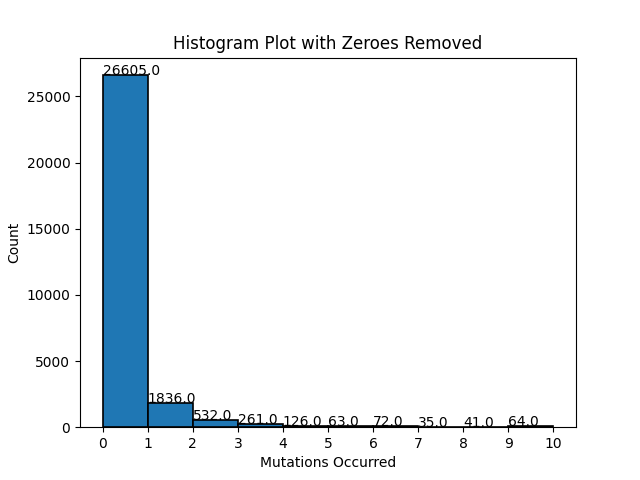
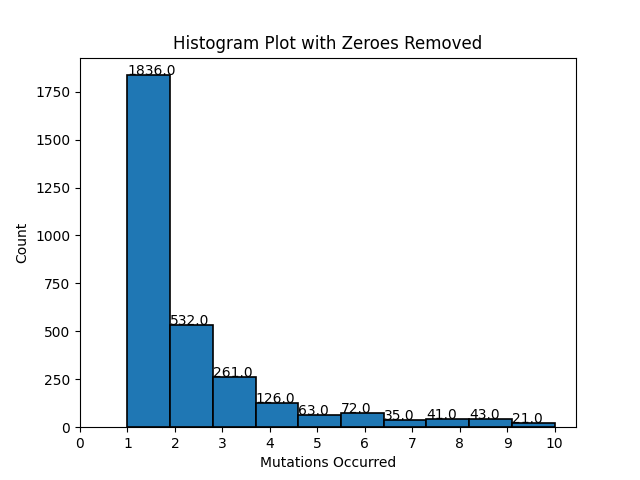
mutation matrix

diff --git a/mutationMatrix.py b/mutationMatrix.py
@@ -1,0 +1,85 @@
+# Names: Steven Jiang
+# Assignment: Project
+# Date: 10/19/21
+# Class: Graduate Bioinformatics, Dr. Chen
+
+import os
+import numpy as np
+import pandas as pd
+from Bio import SeqIO
+
+data = {}
+
+numUnique = 1000
+uniqueSeqFile = 'top1000UniqueSequences.fasta'
+tempFile1 = 'tempFile1.fasta'
+tempFile2 = 'tempFile2.fasta'
+gatekeeperOutputFile = 'output'
+
+def processData():
+    with open(uniqueSeqFile) as handle:
+        for record in SeqIO.parse(handle, 'fasta'):
+            seqID = record.id
+            sequence = str(record.seq)
+
+            data[seqID] = sequence
+
+    print('Confirm size of dictionary matches numUnique: ', len(data))
+
+
+def writeToTempFiles(fileName, header, sequence):
+    with open(fileName, 'w') as file:
+        file.write('>' + header + '\n')
+        file.write(sequence + '\n')
+
+
+def getNumMutations():
+    with open(gatekeeperOutputFile + '.vcf') as f:
+        counter = 0
+        for i in f:
+            # Ignore metadata stuff
+            if not i.startswith('#'):
+                counter += 1
+        return counter
+
+
+def runGATEkeeperCommand():
+    mutationMatrix = [[0 for _ in range(numUnique)] for _ in range(numUnique)]
+    command = './GATEkeeper/bin/GATEkeeper -r ' + tempFile1 + ' -q ' + tempFile2 + ' -o ' + gatekeeperOutputFile
+    keys = list(data.keys())
+
+    for i in range(len(data)):
+        writeToTempFiles(tempFile1, keys[i], data[keys[i]])
+
+        for j in range(i + 1, len(data)):
+            writeToTempFiles(tempFile2, keys[j], data[keys[j]])
+            print('Running GATEkeeper on indices:', i, 'and', j)
+            os.system(command)
+            mutationMatrix[i][j] = getNumMutations()
+
+    return mutationMatrix
+
+
+def saveMatrix(matrix):
+    rowColLabels = [str(x) for x in range(1, numUnique + 1)]
+    matrix = np.array(matrix)
+
+    df = pd.DataFrame(matrix, columns=rowColLabels, index=rowColLabels)
+    df.to_csv(matrixOutputFile, columns=rowColLabels)
+
+
+def deleteTempFiles():
+    os.system('rm output.*')
+    os.system('rm tempFile*.*')
+    os.system('rm tempFile*.*')
+
+
+def main():
+    processData()
+    matrix = runGATEkeeperCommand()
+    saveMatrix(matrix)
+    deleteTempFiles()
+
+
+if __name__ == '__main__':
+    main()

diff --git a/main.py b/main.py
@@ -158,7 +158,7 @@ def histogramPlot1():
 
 def histogramPlot2():
     values = mutationFrequencyData.values()
-    values = [i for i in list(values) if 0 <= i <= 10]
+    values = [i for i in list(values) if 0 < i <= 10]
 
     count0 = [i for i in list(values) if i == 1]
 
@@ -197,8 +197,8 @@ def main():
 if __name__ == '__main__':
     plotDataSetup()
     main()
-    manhattanPlot()
-    snpTypeFrequencyPlot()
-    substitutionFrequencyPlot()
+    # manhattanPlot()
+    # snpTypeFrequencyPlot()
+    # substitutionFrequencyPlot()
     histogramPlot1()
     histogramPlot2()
